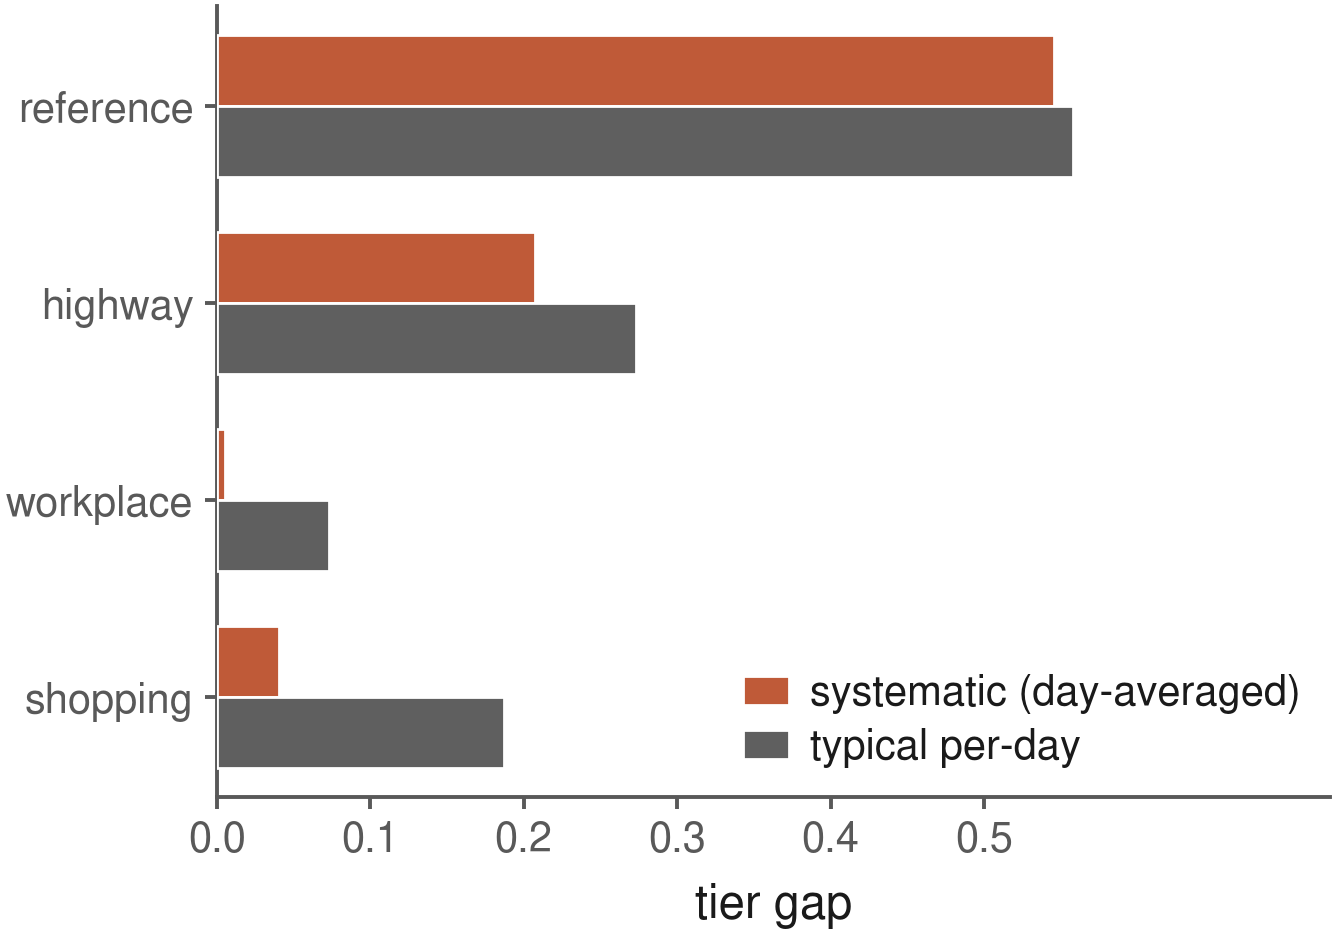
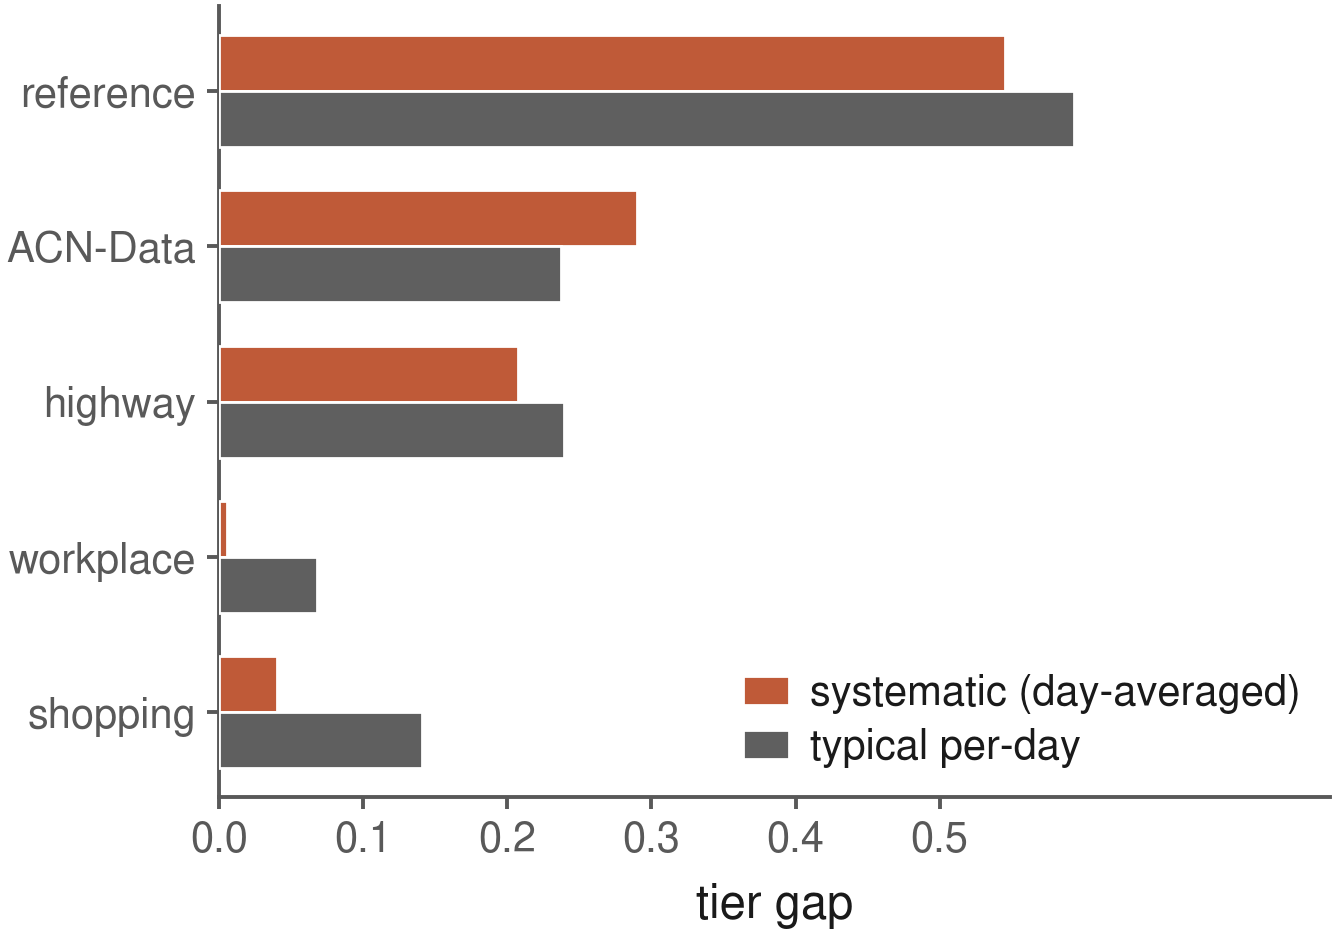
Fix two stale-data paths that put the scarcity figures a run behind the tables
Regenerating a figure only proves it matches what the code produces. If the code
carries a hardcoded constant, or silently prefers a file from an older run, the
regenerated figure reproduces the stale number faithfully. Both were happening, and
both fed the figures that sit beside the sites table, so a reviewer comparing Table 4
against Figure 2b or 2c saw numbers that disagreed.

audit_scarcity_severity.py hardcoded SITE_GAMMA = {reference 0.5666, highway 0.2199,
shopping 0.0297, ...}. Those were correct when they were pasted and silently wrong
after the 256-day re-run, which put the reference site at 0.545 and the highway at
0.207. The gaps are now read from audit_robustness.json and the emitted JSON records
which run they came from and over how many days. The reference point now lands exactly
on the capacity sweep curve (residual +0.000) instead of floating above it.

plot_mechanism.py resolved its estimator input as
audit_estimator_check_acn.json OR audit_estimator_check.json. The ACN file exists but
is never regenerated without EQUICHARGE_ACN_JSON, so it won every time and supplied the
per-day bars for ALL sites from the 32-day run while the systematic bars came from the
fresh one. Each site's two bars now come from the same run; the ACN row is taken from
the ACN files explicitly, and a mismatch in run length is printed rather than absorbed.

check_paper_numbers.py gains the check that a numeral-level gate structurally cannot
[…]

diff --git a/EquiCharge-RLC2027/experiments/check_paper_numbers.py b/EquiCharge-RLC2027/experiments/check_paper_numbers.py
@@ -371,6 +371,67 @@ def find_source(target: str, results: dict, percentish: bool,
     return None
 
 
+#: Keys under which a released run records how many realized days it used. Different
+#: scripts spell it differently; all of them are checked.
+_DAY_KEYS = ("n_days", "days_used", "used_after_filter", "requested", "oracle_days",
+             "days", "n_days_used")
+
+
+def _day_counts(node, sink):
+    """Collect every day count a released run reports, wherever it is nested."""
+    if isinstance(node, dict):
+        for k, v in node.items():
+            if k in _DAY_KEYS and isinstance(v, (int, float)) and not isinstance(v, bool):
+                if 1 <= v <= 100000:
+                    sink.add(int(v))
+            _day_counts(v, sink)
+    elif isinstance(node, list):
+        for v in node:
+            _day_counts(v, sink)
+
+
+def check_run_lengths(results_dir: str) -> list:
+    """Every released run should cover the same realized days. Report the ones that do not.
+
+    This is the check that a numeral-level gate structurally cannot make. Figures are
+    images, so no amount of scanning the .tex will notice that a figure was drawn from a
+    run of a different length than the table beside it. What it can notice is that two
+    files in the released set disagree about how many days they cover, which is the
+    upstream cause. The ACN-Data configuration is exempt by name, because it is skipped
+    whenever EQUICHARGE_ACN_JSON is unset and is documented as lagging.
+    """
+    from collections import Counter
+
+    per_file = {}
+    for name in sorted(os.listdir(results_dir)):
+        if not name.endswith(".json") or name == REPORT_NAME:
+            continue
+        try:
+            data = json.load(open(os.path.join(results_dir, name), encoding="utf-8"))
+        except (json.JSONDecodeError, UnicodeDecodeError):
+            continue
+        found: set = set()
+        _day_counts(data, found)
+        if found:
+            per_file[name] = sorted(found)
+
+    modal = Counter(d for n, ds in per_file.items()
+                    if "_acn" not in n for d in ds).most_common(1)
+    if not modal:
+        return []
+    expected = modal[0][0]
+    offenders = []
+    for name, days in per_file.items():
+        if "_acn" in name:
+            continue
+        odd = [d for d in days if d != expected]
+        # A file may legitimately mention other counts (a day-count ladder, a sub-sweep).
+        # Only flag one that never mentions the expected horizon at all.
+        if expected not in days and odd:
+            offenders.append({"file": name, "days_reported": days, "expected": expected})
+    return offenders
+
+
 def main() -> int:
     ap = argparse.ArgumentParser(description=__doc__.splitlines()[0])
     ap.add_argument("--verbose", action="store_true", help="print where each number matched")
@@ -428,14 +489,28 @@ def main() -> int:
                 print("  MISSING %-10s line %-4d  %s\n            %s"
                       % (lit, item["line"], where, item["context"]))
 
+    # A figure cannot be scanned for numerals, so the gate checks the upstream cause
+    # instead: whether the released runs agree about how many days they cover.
+    stale = check_run_lengths(RESULTS)
+    if stale:
+        print("\nRUN-LENGTH MISMATCH. These released files do not cover the same realized")
+        print("days as the rest of the set, so any figure drawn from them disagrees with the")
+        print("tables:")
+        for row in stale:
+            print("  %-34s reports %s days, the set is at %d"
+                  % (row["file"], row["days_reported"], row["expected"]))
+    else:
+        print("\nrun lengths agree across the released set (ACN-Data files exempt by name)")
+
     print("\n%d numerals: %d matched, %d exempt, %d unaccounted for"
           % (total, matched, exempt, len(missing)))
     report = os.path.join(_DEFAULT_RESULTS, REPORT_NAME)
     json.dump({"total": total, "matched": matched, "exempt": exempt,
-               "missing": missing, "result_files": sorted(results)},
+               "missing": missing, "run_length_mismatches": stale,
+               "result_files": sorted(results)},
               open(report, "w"), indent=2)
     print("wrote", report)
-    if missing:
+    if missing or stale:
         print("\nGATE FAILED. Each number above is printed in the paper but is not produced by "
               "any released run.\nEither regenerate the result it should come from, correct the "
               "paper, or add it to ALLOWLIST\nwith a reason.")

diff --git a/EquiCharge-RLC2027/experiments/plot_mechanism.py b/EquiCharge-RLC2027/experiments/plot_mechanism.py
@@ -188,23 +188,43 @@ def plot_grounding(M):
     S.savefig(fig, os.path.join(FIGDIR, "grounding_invariance.png"))
 
 
-def plot_scarcity_boundary(rob, chk):
+def plot_scarcity_boundary(rob, chk, acn_chk=None, acn_mech=None):
     """Two measures of the gap per site: systematic (day-averaged, clay) vs typical per-day
     (gray). Equal -> systematic disparate impact; per-day >> systematic -> rotating (within-pop).
 
     Horizontal bars, so five site names set at full size with no rotation and no collision in
-    a 3.3in column. Sites are listed power-bound first. The ACN-Data site is included whenever
-    both inputs carry it, so the figure cannot show four sites while the text describes five."""
+    a 3.3in column. Sites are listed power-bound first.
+
+    Both bars for a given site must come from the SAME run. The ACN-Data configuration needs
+    the Caltech dataset and is skipped when it is absent, so its files can be a full run
+    behind the rest; its row is therefore taken from the ACN files explicitly and its day
+    count is reported, rather than letting a stale superset file supply every site's bars.
+    That substitution is what once put this figure's numbers a run behind the sites table."""
     order = [("reference", "reference_16ch_30kW_residential_eu"),
              ("ACN-Data", "acn_data_caltech_8ch_30kW"),
              ("highway", "highway_20ch_45kW_eu_highrate"),
              ("workplace", "workplace_24ch_55kW_us"),
              ("shopping", "shopping_8ch_16kW_world")]
-    order = [(l, c) for l, c in order
-             if c in rob["configs"] and c in chk["check1_rotation"]]
-    labels = [l for l, _ in order]
-    systm = [rob["configs"][c]["profit_optimal_disparity_dayavg"] for _, c in order]
-    perday = [chk["check1_rotation"][c]["per_day_gap_median"] for _, c in order]
+    ACN = "acn_data_caltech_8ch_30kW"
+    rows, day_counts = [], {}
+    for label, cfg in order:
+        if cfg == ACN:
+            # Only from the ACN files, and only when both halves are there.
+            if acn_chk and ACN in acn_chk.get("check1_rotation", {}) and acn_mech:
+                rows.append((label, acn_mech["box1"]["profit"]["gap"],
+                             acn_chk["check1_rotation"][ACN]["per_day_gap_median"]))
+                day_counts[label] = acn_chk["check1_rotation"][ACN].get("days")
+            continue
+        if cfg in rob["configs"] and cfg in chk["check1_rotation"]:
+            rows.append((label, rob["configs"][cfg]["profit_optimal_disparity_dayavg"],
+                         chk["check1_rotation"][cfg]["per_day_gap_median"]))
+            day_counts[label] = rob["configs"][cfg].get("n_days")
+    if len(set(day_counts.values())) > 1:
+        print("  [scarcity_boundary] NOTE: sites come from runs of different length, %s. "
+              "The caption must say so." % day_counts)
+    labels = [r[0] for r in rows]
+    systm = [r[1] for r in rows]
+    perday = [r[2] for r in rows]
     y = np.arange(len(order))[::-1]; h = 0.36
     fig, ax = plt.subplots(figsize=(W, _h(0.70)))
     ax.barh(y + h / 2, systm, h, color=HARM, edgecolor="white", linewidth=0.5, zorder=3,
@@ -326,8 +346,13 @@ def main(argv=None):
     plot_grounding(M)
     # The --acn estimator run repeats check 1 on the SAME bundled envs and adds the ACN
     # site, so it is a strict superset; prefer it so the figure matches the 5-site sweep.
-    chk = _load_optional("audit_estimator_check_acn.json") or _load("audit_estimator_check.json")
-    plot_scarcity_boundary(_load("audit_robustness.json"), chk)
+    # The bundled-data estimator run is authoritative for the bundled sites. The ACN files
+    # are consulted only for the ACN row, because that configuration is skipped whenever
+    # EQUICHARGE_ACN_JSON is unset and its files then lag the rest of the suite.
+    chk = _load("audit_estimator_check.json")
+    acn_chk = _load_optional("audit_estimator_check_acn.json")
+    acn_mech = _load_optional("audit_mechanism_acn.json")
+    plot_scarcity_boundary(_load("audit_robustness.json"), chk, acn_chk, acn_mech)
     plot_levers(_load("audit_levers.json"))
     plot_capacity(_load("audit_capacity.json"))
     if not a.outdir:

diff --git a/EquiCharge-RLC2027/experiments/audit_scarcity_severity.py b/EquiCharge-RLC2027/experiments/audit_scarcity_severity.py
@@ -36,8 +36,35 @@ SITES = {
     "highway": (dict(n_evses=10, grid_kw=45.0),
                 dict(car_profile="eu", user_profile="highway", average_cars_per_day=60, grid_price_dataset="2023_NL")),
 }
-SITE_GAMMA = {"reference": 0.5666, "highway": 0.2199, "workplace": 0.0048, "shopping": 0.0297}
-# Gamma per site from experiments/results/audit_robustness.json (released run).
+#: The released run's config key for each site here. Gamma is READ from that run rather
+#: than copied into this file. A hardcoded copy is exactly how this figure came to plot
+#: one run's gaps against another run's table: the numbers were right when they were
+#: pasted and silently wrong the next time the audit was re-run at a different horizon.
+ROBUSTNESS_KEY = {
+    "reference": "reference_16ch_30kW_residential_eu",
+    "workplace": "workplace_24ch_55kW_us",
+    "shopping": "shopping_8ch_16kW_world",
+    "highway": "highway_20ch_45kW_eu_highrate",
+}
+
+
+def site_gamma():
+    """Per-site systematic tier gap, from the released robustness run.
+
+    Returns ``(gamma_by_site, n_days)``. Raises if the run is missing a site this script
+    plots, because a figure that quietly drops a site is worse than one that fails.
+    """
+    path = os.path.join(RESULTS, "audit_robustness.json")
+    configs = json.load(open(path))["configs"]
+    missing = [s for s, k in ROBUSTNESS_KEY.items() if k not in configs]
+    if missing:
+        raise SystemExit(
+            f"audit_robustness.json has no entry for {missing}. Re-run "
+            f"`python -m experiments.audit_robustness` before this script.")
+    gamma = {s: configs[k]["profit_optimal_disparity_dayavg"]
+             for s, k in ROBUSTNESS_KEY.items()}
+    days = {configs[k].get("n_days") for k in ROBUSTNESS_KEY.values()}
+    return gamma, (days.pop() if len(days) == 1 else sorted(days))
 
 
 def mean_daily_demand(env, key, n_days):
@@ -50,7 +77,11 @@ def mean_daily_demand(env, key, n_days):
 
 def main():
     key = jax.random.PRNGKey(7)
-    out = {"sites": {}, "capacity_sweep": []}
+    SITE_GAMMA, gamma_days = site_gamma()
+    out = {"sites": {}, "capacity_sweep": [],
+           "gamma_source": {"file": "audit_robustness.json", "n_days": gamma_days},
+           "demand_estimate_days": N_DAYS}
+    print(f"[gamma] read from audit_robustness.json ({gamma_days} realized days)")
 
     for name, (layout, data) in SITES.items():
         station = scarcity_station(grid_kw=layout["grid_kw"], n_evses=layout["n_evses"])

diff --git a/EquiCharge-RLC2027/experiments/results/DATA_MANIFEST.md b/EquiCharge-RLC2027/experiments/results/DATA_MANIFEST.md
@@ -72,6 +72,16 @@ intentionally deferred — these files hold the numbers; plotting is a separate 
 - `configs.{reference, workplace, shopping, highway}` — per config: layout, mean_customers_per_day, profit_optimal_disparity (median/iqr/min/max), worst_tier_days (day counts), budget_worst_fraction, revenue_pof_pct, delivered_energy_max_dev_kwh.
 - `verdict` — budget_worst_fraction_by_config, disparate_impact_structural (False), interpretation.
 
+## `scarcity_severity.json` — the unified demand-to-capacity axis
+- `sites.{reference, workplace, shopping, highway}` — `grid_kw`, `n_connectors`,
+  `mean_daily_demand_kwh`, `daily_capacity_kwh`, `demand_capacity_ratio`, `gamma`.
+- `gamma_source` — which released run the per-site gaps were READ from, and its day
+  count. They are no longer copied into the script by hand; a hardcoded copy is how the
+  figure once came to plot one run's gaps against another run's table.
+- `demand_estimate_days` — days used for the demand estimate only (the gaps come from
+  the robustness run, not from this script's own rollouts).
+- `capacity_sweep[]` — `grid_kw`, `rho`, `gamma` at the reference site.
+
 ## `verify_theory.json` — the structure theorem, checked day by day (32 days)
 - `chain_identity` — `days_checked`, `days_failed`, `max_abs_dev_kwh` and
   `median_abs_dev_kwh` for `|E(V_l) - g_hat(V_l)|` at the revenue optimum,
